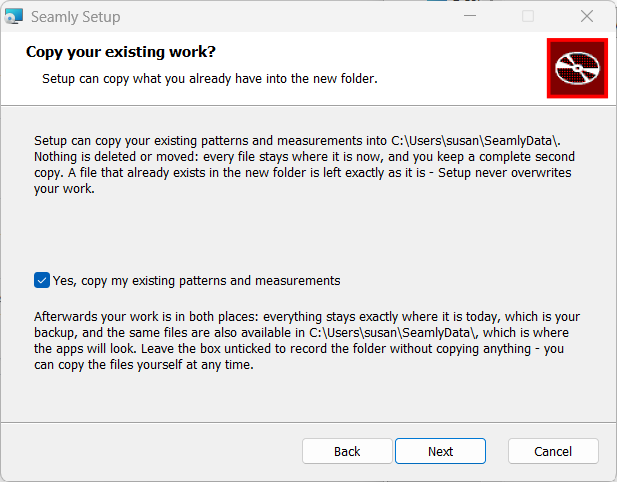
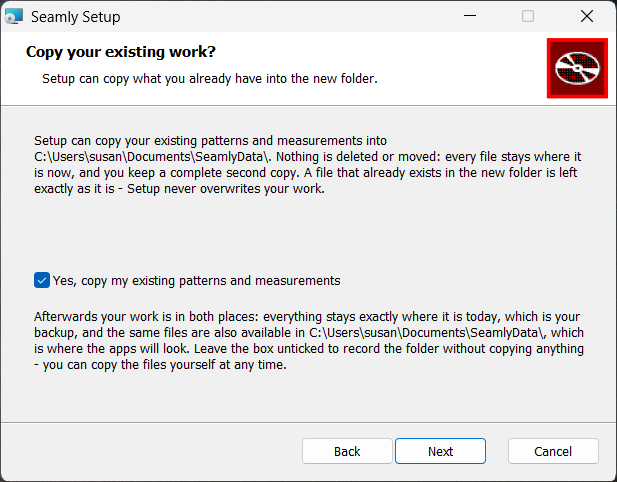
updated docs

diff --git a/project-docs/FILE_PATHS_PLAN.md b/project-docs/FILE_PATHS_PLAN.md
@@ -2,230 +2,124 @@ I recommend using **`Seamly` as the suite-level directory**, with separate subdi
 
 ## Application data
 
-Application data includes settings, configuration, caches, logs, downloaded resources, recovery files, and other files managed internally by the software.
+- Notes:
+  - Application data includes settings, configuration, caches, logs, downloaded resources, recovery files, and other files managed internally by the software. Internal configuration and caches should remain in the operating system’s application-data locations.
+  - User Data means files the user creates, opens, saves, manages, backs up, or transfers: patterns, measurement files, layouts, exports, templates, and projects. Users should see and manage `Documents/SeamlyData` or similar.
+
+For the transition, the new build should detect the legacy `seamly2d` directory and migrate or adopt it automatically. It should not simply rename the folder, because users may need to roll back to an earlier release. A copy-and-verify migration, followed by leaving the legacy directory intact or clearly marking it as migrated, would be safer.
 
 ### Windows
 
-```text
-%APPDATA%\Seamly\
-├── Seamly2D\
-├── SeamlyMe\
-├── SeamlyLayout\
-└── Shared\
-```
+- Configuration files:
 
-Use `%APPDATA%` for configuration that should follow the user if Windows roaming profiles are enabled:
+  ```text
+  %APPDATA%\seamly\
+  ├── seamly2D\
+  ├── seamlyMe\
+  ├── seamlyLayout\
+  └── shared\
+  ```
 
-```text
-C:\Users\<username>\AppData\Roaming\Seamly\
-```
+  - Use `%APPDATA%` for configuration that should follow the user if Windows roaming profiles are enabled: `C:\Users\<username>\AppData\Roaming\seamly\`
 
-Use `%LOCALAPPDATA%` for caches, logs, temporary data, recovery data, and machine-specific state:
+  - Use `%LOCALAPPDATA%` for caches, logs, temporary data, recovery data, and machine-specific state:
 
-```text
-C:\Users\<username>\AppData\Local\Seamly\
-├── Seamly2D\
-│   ├── Cache\
-│   ├── Logs\
-│   └── Recovery\
-├── SeamlyMe\
-├── SeamlyLayout\
-└── Shared\
-```
+  ```text
+  C:\Users\<username>\AppData\Local\seamly\
+  ├── seamly2d\
+  │   ├── cache\
+  │   ├── logs\
+  │   └── recovery\
+  ├── seamlyme\
+  │   ├── cache\
+  │    ├── logs\
+  │   └── recovery\
+  ├── seamlylayout\
+  │   ├── cache\
+  │   ├── logs\
+  │   └── recovery\
+  └── shared\
+  ```
 
-Recommended Windows mapping:
-
-| Data                 | Directory                                         |
-| -------------------- | ------------------------------------------------- |
-| Configuration        | `%APPDATA%\Seamly\<application>\`               |
-| Cache                | `%LOCALAPPDATA%\Seamly\<application>\Cache\`    |
-| Logs                 | `%LOCALAPPDATA%\Seamly\<application>\Logs\`     |
-| Recovery/autosave    | `%LOCALAPPDATA%\Seamly\<application>\Recovery\` |
-| Shared internal data | `%LOCALAPPDATA%\Seamly\Shared\`                 |
+- Recommended **Windows** mapping:
+  
+  | Data                 | Directory                                       |
+  | -------------------- | ----------------------------------------------- |
+  | Configuration        | `%APPDATA%\seamly\<application>\`               |
+  | Cache                | `%LOCALAPPDATA%\seamly\<application>\cache\`    |
+  | Logs                 | `%LOCALAPPDATA%\seamly\<application>\logs\`     |
+  | Recovery/autosave    | `%LOCALAPPDATA%\seamly\<application>\recovery\` |
+  | Shared internal data | `%LOCALAPPDATA%\seamly\shared\`                 |
+  | User data            | `%HOME\Documents\SeamlyData\                                 |
 
 ### Linux
 
-Follow the XDG Base Directory specification.
+- Follow the XDG Base Directory specification. The application must honor the XDG environment variables when users override these defaults.
 
-```text
-$XDG_CONFIG_HOME/Seamly/
-```
+  - `$XDG_CONFIG_HOME` Default path: `~/.config/`; Purpose: Stores user-specific configuration files, settings, and preferences. Top level folder for configuration data for seamly would be `$XDG_CONFIG_HOME/seamly/`, e.g. `~/.config/seamly/`
 
-Normally:
+  - `$XDG_DATA_HOME` Default path: `~/.local/share/`; Purpose: Stores user-specific data files like save files, media databases, or local app states. Top level folder for persistent internal data for seamly would be `$XDG_DATA_HOME/seamly/`, e.g. `~/.local/share/seamly/`
 
-```text
-/home/<username>/.config/Seamly/
-```
+  - `$XDG_CACHE_HOME` Default path: `~/.cache/` Purpose: Stores non-essential data like web browser caches or thumbnail previews. Top level tree For cache data for seamly would be  `$XDG_CACHE_HOME/seamly`, e.g. `~/.cache/seamly/`
 
-Persistent application data:
+  - `$XDG_LOGS_HOME` Default path: `~/.local/state/`.The top level folder for logs for seamly would be `$XDG_LOGS_HOME/seamly`, e.g. `~/.local/state/seamly/`
 
-```text
-$XDG_DATA_HOME/Seamly/
-```
+- Recommended **Debian Linux** mapping:
 
-Normally:
-
-```text
-/home/<username>/.local/share/Seamly/
-```
-
-Cache:
-
-```text
-$XDG_CACHE_HOME/Seamly/
-```
-
-Normally:
-
-```text
-/home/<username>/.cache/Seamly/
-```
-
-Recommended Linux mapping:
-
-| Data                     | Directory                                         |
-| ------------------------ | ------------------------------------------------- |
-| Configuration            | `~/.config/Seamly/<application>/`               |
-| Persistent internal data | `~/.local/share/Seamly/<application>/`          |
-| Cache                    | `~/.cache/Seamly/<application>/`                |
-| Logs                     | `~/.local/state/Seamly/<application>/Logs/`     |
-| Recovery/autosave        | `~/.local/state/Seamly/<application>/Recovery/` |
-| Shared internal data     | `~/.local/share/Seamly/Shared/`                 |
-
-The application must honor the XDG environment variables when users override these defaults.
+| Data                 | Directory                                        |
+| -------------------- | ------------------------------------------------ |
+| Configuration        | `~/.config/seamly/<application>/`                |
+| Cache                | `~/.cache/seamly/<application>/`                 |
+| Logs                 | `~/.local/state//seamly/<application>/logs`      |
+| Recovery/autosave    | `~/.local/state//seamly/<application>/recovery/` |
+| Shared internal data | `~/.local/share/seamly/`                         |
+| User data            | `~/Documents/SeamlyData/`                        |
 
 ### macOS
 
+- Follow the Apple Standard Directory specification. The application must honor the Apple Standard Directory environment variables when users override these defaults.
+- Preference Files (.plist): Instead of raw text files (like .conf or .yaml), macOS applications store configuration settings inside ~/Library/Preferences/ as binary or XML files called property lists (.plist).
+
+
+| Data                 | Directory                                                      |
+| -------------------- | -------------------------------------------------------------- |
+| Configuration        | `~/Library/Application/seamly/<application>/`                  |
+| Native preferences   | `~/Library/Preferences/org.seamly.<application>.plist`         |
+| Cache                | `~/Library/Caches/seamly/<application>/`                       |
+| Logs                 | `~/Library/Logs/seamly/<application>/`                         |
+| Recovery/autosave    | `~/Library/Application/seamly/<application>/recovery/`         |
+| Shared internal data | `~/Library/Application/seamly/shared/`                         |
+| User data            | `~/Documents/SeamlyData/`                                      |
+
 Persistent application data:
 
 ```text
-/Users/<username>/Library/Application Support/Seamly/
-├── Seamly2D/
-├── SeamlyMe/
-├── SeamlyLayout/
-└── Shared/
+~/Library/Application/seamly/
+├── seamly2d/
+├── seamlyme/
+├── seamlylayout/
+└── shared/
 ```
 
 Caches:
 
 ```text
-/Users/<username>/Library/Caches/Seamly/
-├── Seamly2D/
-├── SeamlyMe/
-└── SeamlyLayout/
+~/Library/Caches/seamly/
+├── seamly2d/
+├── seamlyme/
+└── seamlylayout/
 ```
 
 Logs:
 
 ```text
-/Users/<username>/Library/Logs/Seamly/
+~/Library/Logs/seamly/
 ```
 
-Preferences may be stored as standard macOS property-list files:
+Preferences may be stored as standard macOS property-list (.plist) files:
 
 ```text
-/Users/<username>/Library/Preferences/org.seamly.Seamly2D.plist
-/Users/<username>/Library/Preferences/org.seamly.SeamlyMe.plist
-/Users/<username>/Library/Preferences/org.seamly.SeamlyLayout.plist
+~/Library/Preferences/org.seamly.Seamly2D.plist
+~/Library/Preferences/org.seamly.SeamlyMe.plist
+~/Library/Preferences/org.seamly.SeamlyLayout.plist
 ```
-
-Recommended macOS mapping:
-
-| Data                 | Directory                                                        |
-| -------------------- | ---------------------------------------------------------------- |
-| Configuration        | `~/Library/Application Support/Seamly/<application>/`          |
-| Native preferences   | `~/Library/Preferences/org.seamly.<application>.plist`         |
-| Cache                | `~/Library/Caches/Seamly/<application>/`                       |
-| Logs                 | `~/Library/Logs/Seamly/<application>/`                         |
-| Recovery/autosave    | `~/Library/Application Support/Seamly/<application>/Recovery/` |
-| Shared internal data | `~/Library/Application Support/Seamly/Shared/`                 |
-
-## User data
-
-User data means files the user creates, opens, saves, manages, backs up, or transfers: patterns, measurement files, layouts, exports, templates, and projects.
-
-### Windows
-
-Default root:
-
-```text
-C:\Users\<username>\Documents\Seamly\
-```
-
-Using the Windows known-folder API:
-
-```text
-%USERPROFILE%\Documents\Seamly\
-```
-
-Suggested structure:
-
-```text
-Documents\Seamly\
-├── Projects\
-├── Patterns\
-├── Measurements\
-├── Layouts\
-├── Templates\
-└── Exports\
-```
-
-### Linux
-
-Default root:
-
-```text
-/home/<username>/Documents/Seamly/
-```
-
-Conceptually:
-
-```text
-$XDG_DOCUMENTS_DIR/Seamly/
-```
-
-Suggested structure:
-
-```text
-Documents/Seamly/
-├── Projects/
-├── Patterns/
-├── Measurements/
-├── Layouts/
-├── Templates/
-└── Exports/
-```
-
-The application should resolve `XDG_DOCUMENTS_DIR` rather than assuming the folder is literally named `Documents`, because localized Linux systems may use a different name.
-
-### macOS
-
-Default root:
-
-```text
-/Users/<username>/Documents/Seamly/
-```
-
-Suggested structure:
-
-```text
-Documents/Seamly/
-├── Projects/
-├── Patterns/
-├── Measurements/
-├── Layouts/
-├── Templates/
-└── Exports/
-```
-
-## Consolidated recommendation
-
-| Platform | Configuration                                                           | Cache                          | User documents                      |
-| -------- | ----------------------------------------------------------------------- | ------------------------------ | ----------------------------------- |
-| Windows  | `%APPDATA%\Seamly\`                                                   | `%LOCALAPPDATA%\Seamly\`     | `%USERPROFILE%\Documents\Seamly\` |
-| Linux    | `$XDG_CONFIG_HOME/Seamly/`              | `$XDG_CACHE_HOME/Seamly/` | `$XDG_DOCUMENTS_DIR/Seamly/` |                                     |
-| macOS    | `~/Library/Application Support/Seamly/`                               | `~/Library/Caches/Seamly/`   | `~/Documents/Seamly/`             |
-
-The important boundary is: **users should see and manage `Documents/Seamly`; internal configuration and caches should remain in the operating system’s application-data locations.**
-
-For the transition, the new build should detect the legacy `seamly2d` directory and migrate or adopt it automatically. It should not simply rename the folder, because users may need to roll back to an earlier release. A copy-and-verify migration, followed by leaving the legacy directory intact or clearly marking it as migrated, would be safer.

diff --git a/.github/README-BUILDS.md b/.github/README-BUILDS.md
@@ -155,7 +155,7 @@ A Flatpak sandbox exports `XDG_CONFIG_HOME=~/.var/app/<app-id>/config` and `XDG_
 
 ## User data files (patterns, measurements)
 
-- Default user data tree on Windows: `C:\Users\<user>\Documents\Seamly` (Task 60; `seamlyData` in Task 53, `seamly` in Task 34, `seamly2d` before that). **An existing `seamly2d` tree is copied wholesale to the new root on first run and left intact**, marked with `MIGRATED-TO-SEAMLY.txt` — never deleted, never a bare rename, so an upgrading user can still roll back. See "User data tree — the relocatable data root" above. The nine standard subfolders are created under whichever root wins, by `ensureDataRootTree()`, called from each app's `openSettings()`.
+- Default user data tree on Windows: `C:\Users\<user>\Documents\SeamlyData` (Task 60; `seamlyData` in Task 53, `seamly` in Task 34, `seamly2d` before that). **An existing `seamly2d` tree is copied wholesale to the new root on first run and left intact**, marked with `MIGRATED-TO-SEAMLY.txt` — never deleted, never a bare rename, so an upgrading user can still roll back. See "User data tree — the relocatable data root" above. The nine standard subfolders are created under whichever root wins, by `ensureDataRootTree()`, called from each app's `openSettings()`.
 - Users legitimately relocate it — e.g. to a cloud-synced drive (`G:\My Drive\Seamly`) for access while travelling. Since Task 34 the location is one setting, `paths/dataRoot`, that every data subfolder derives from; installers and apps must treat it as configurable, not fixed (see the Task 14 installer prompts).
 
 ## Per-platform build & packaging
